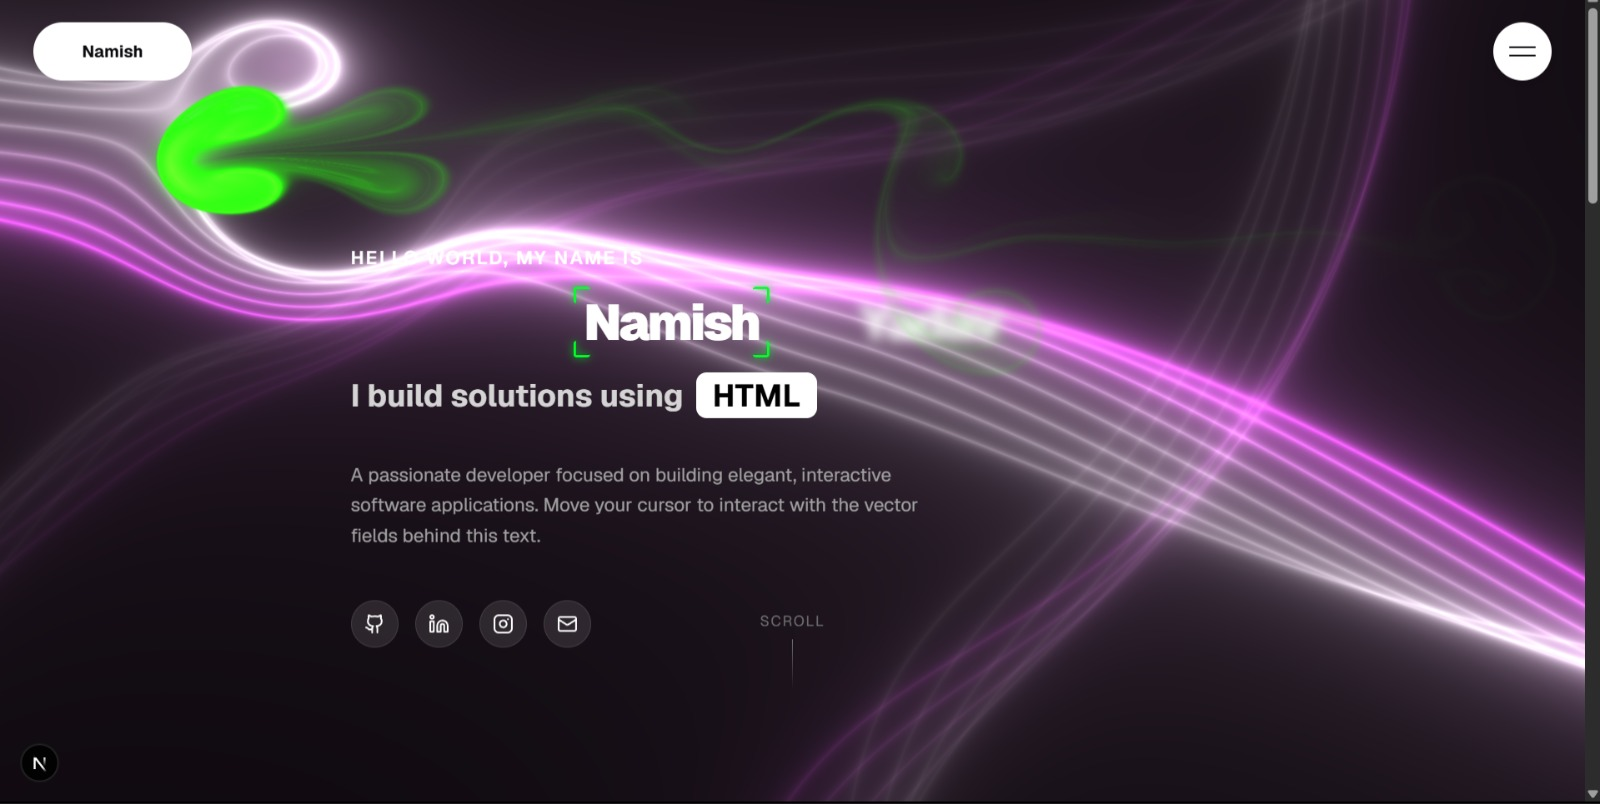
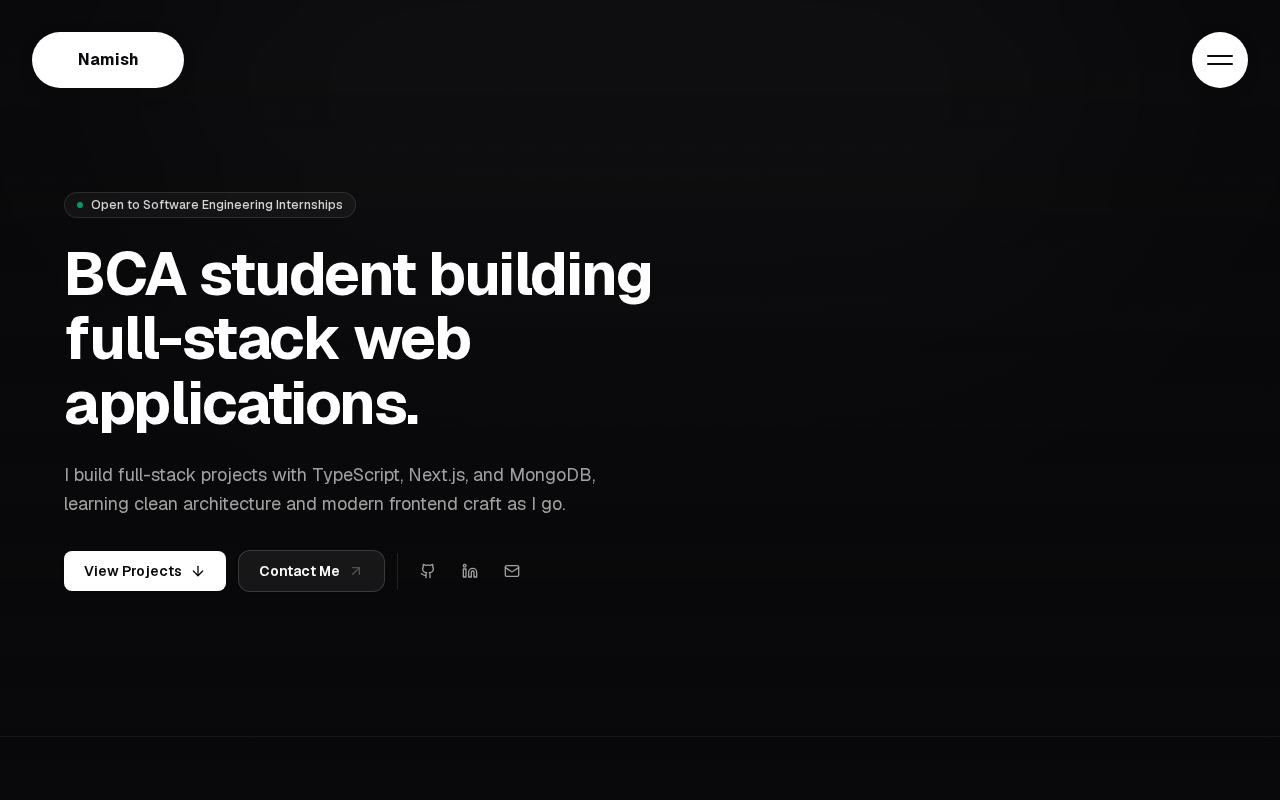
Add preview image, repo description, and fix deployment links

diff --git a/README.md b/README.md
@@ -2,6 +2,8 @@
 
 > A production-grade personal portfolio site showcasing projects, technical background, and contact information, built to replace a static page with a fully interactive, easily updatable site.
 
+![Preview](preview.png)
+
 ![Status](https://img.shields.io/badge/status-active-brightgreen) ![License](https://img.shields.io/badge/license-MIT-blue)
 
 Live at [https://namishhh.vercel.app](https://namishhh.vercel.app)
